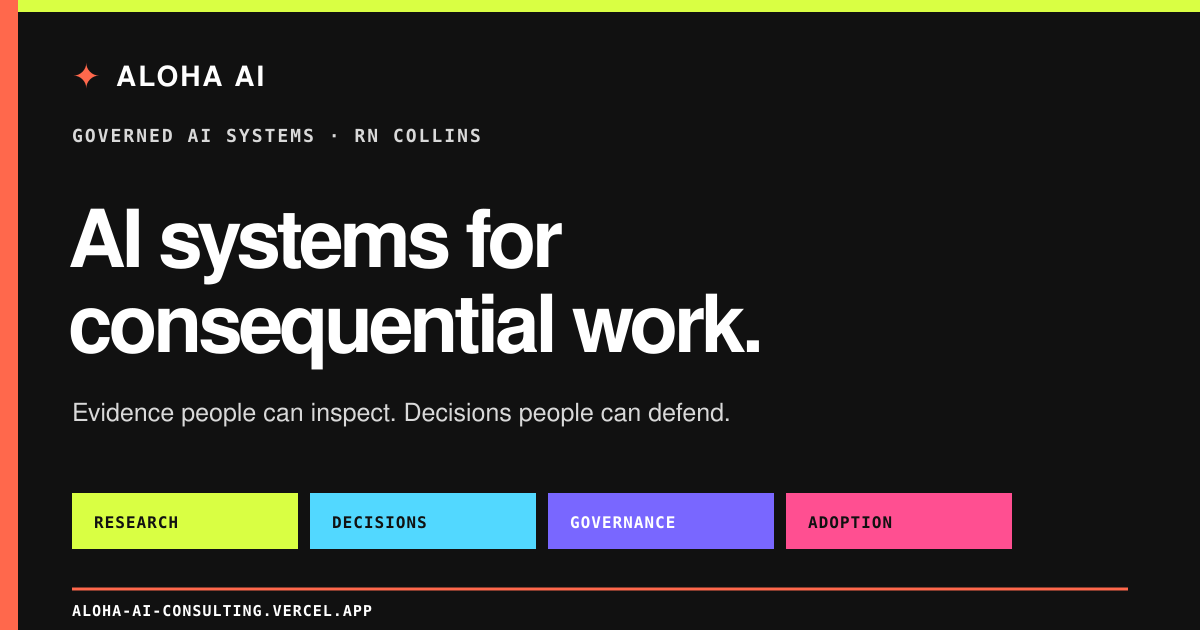
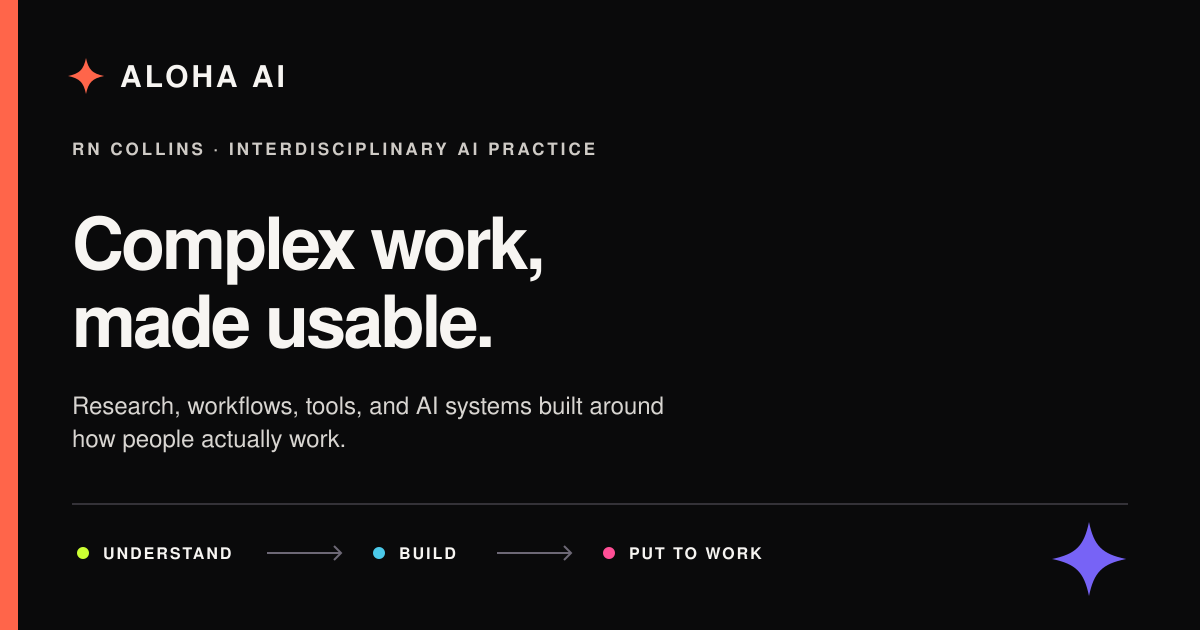
Refine Aloha AI share-card positioning
Reframe the social preview around the full interdisciplinary practice and make the visual hierarchy legible at message-card scale.

diff --git a/lib/site/structured-renderer.js b/lib/site/structured-renderer.js
@@ -93,7 +93,10 @@ export function renderStructuredPage({ resource, registry }) {
   const isResourceDetail = isEditorialDetail || isMethodsDetail || isInteractiveDetail || isConsultingServiceDetail || isProductGovernanceDetail || isUniversityDetail || isUniversityInstitutional;
   const usesDetailHero = isResourceDetail || isServiceDetail || isResearchDetail || resource.pathname === '/about';
   const schema = JSON.stringify(buildSchema(resource));
-  const searchTitle = metadataTitle(resource.seoTitle || resource.title, ' | Aloha AI');
+  const searchTitle = metadataTitle(
+    resource.seoTitle || resource.title,
+    resource.pathname === '/' && resource.seoTitle?.startsWith('Aloha AI') ? '' : ' | Aloha AI'
+  );
   const searchDescription = metadataDescription(resource.metaDescription || resource.summary);
   return `<!doctype html>
 <html lang="en">
@@ -108,15 +111,15 @@ export function renderStructuredPage({ resource, registry }) {
 <meta property="og:title" content="${escapeHtml(searchTitle)}">
 <meta property="og:description" content="${escapeHtml(searchDescription)}">
 <meta property="og:url" content="${BASE_URL}${resource.pathname}">
-<meta property="og:image" content="${BASE_URL}/og-image.png?v=20260729">
+<meta property="og:image" content="${BASE_URL}/og-image.png?v=20260729b">
 <meta property="og:image:width" content="1200">
 <meta property="og:image:height" content="630">
-<meta property="og:image:alt" content="Aloha AI — governed AI systems for consequential work">
+<meta property="og:image:alt" content="Aloha AI — Complex work, made usable. An interdisciplinary AI practice by RN Collins.">
 <meta name="twitter:card" content="summary_large_image">
 <meta name="twitter:title" content="${escapeHtml(searchTitle)}">
 <meta name="twitter:description" content="${escapeHtml(searchDescription)}">
-<meta name="twitter:image" content="${BASE_URL}/og-image.png?v=20260729">
-<meta name="twitter:image:alt" content="Aloha AI — governed AI systems for consequential work">
+<meta name="twitter:image" content="${BASE_URL}/og-image.png?v=20260729b">
+<meta name="twitter:image:alt" content="Aloha AI — Complex work, made usable. An interdisciplinary AI practice by RN Collins.">
 <link rel="icon" href="/favicon.svg" type="image/svg+xml">
 <link rel="stylesheet" href="/aloha-ds.css">
 <link rel="stylesheet" href="/site-shell.css">

diff --git a/tests/publishing-engine.test.js b/tests/publishing-engine.test.js
@@ -109,11 +109,26 @@ test('renders and indexes structured editorial copy', () => {
   const platform = derivePlatform(resources);
   const html = renderStructuredPage({ resource: alpha, registry: platform.registry });
   assert.match(html, /<title>Concise search title \| Aloha AI<\/title>/);
+  assert.match(html, /og-image\.png\?v=20260729b/);
+  assert.match(html, /Complex work, made usable/);
   assert.match(html, /A substantive retained paragraph/);
   assert.match(html, /<pre><code>VERIFY\(source\)<\/code><\/pre>/);
   assert.match(html, /<th>Signal<\/th>/);
   const search = JSON.parse(generatedOutputs(resources, platform).get('/search-index.json'));
   assert.match(search.find((item) => item.id === 'alpha').text, /human reviewer/);
+});
+
+test('keeps an authored homepage brand title from repeating the brand suffix', () => {
+  const home = {
+    ...resource('home', [{ type: 'supports', target: 'beta' }]),
+    pathname: '/',
+    seoTitle: 'Aloha AI | Complex work, made usable'
+  };
+  const beta = resource('beta', [{ type: 'supports', target: 'home' }]);
+  const platform = derivePlatform([home, beta]);
+  const html = renderStructuredPage({ resource: home, registry: platform.registry });
+  assert.match(html, /<title>Aloha AI \| Complex work, made usable<\/title>/);
+  assert.doesNotMatch(html, /Aloha AI \| Complex work, made usable \| Aloha AI/);
 });
 
 test('publishes an accessible plain-language search journey', () => {

diff --git a/lib/site/metadata.js b/lib/site/metadata.js
@@ -1,6 +1,6 @@
 const ORIGIN = 'https://aloha-ai-consulting.vercel.app';
-const DEFAULT_IMAGE = `${ORIGIN}/og-image.png?v=20260729`;
-const DEFAULT_IMAGE_ALT = 'Aloha AI — governed AI systems for consequential work';
+const DEFAULT_IMAGE = `${ORIGIN}/og-image.png?v=20260729b`;
+const DEFAULT_IMAGE_ALT = 'Aloha AI — Complex work, made usable. An interdisciplinary AI practice by RN Collins.';
 const TITLE_LIMIT = 70;
 const DESCRIPTION_MIN = 70;
 const DESCRIPTION_LIMIT = 180;
